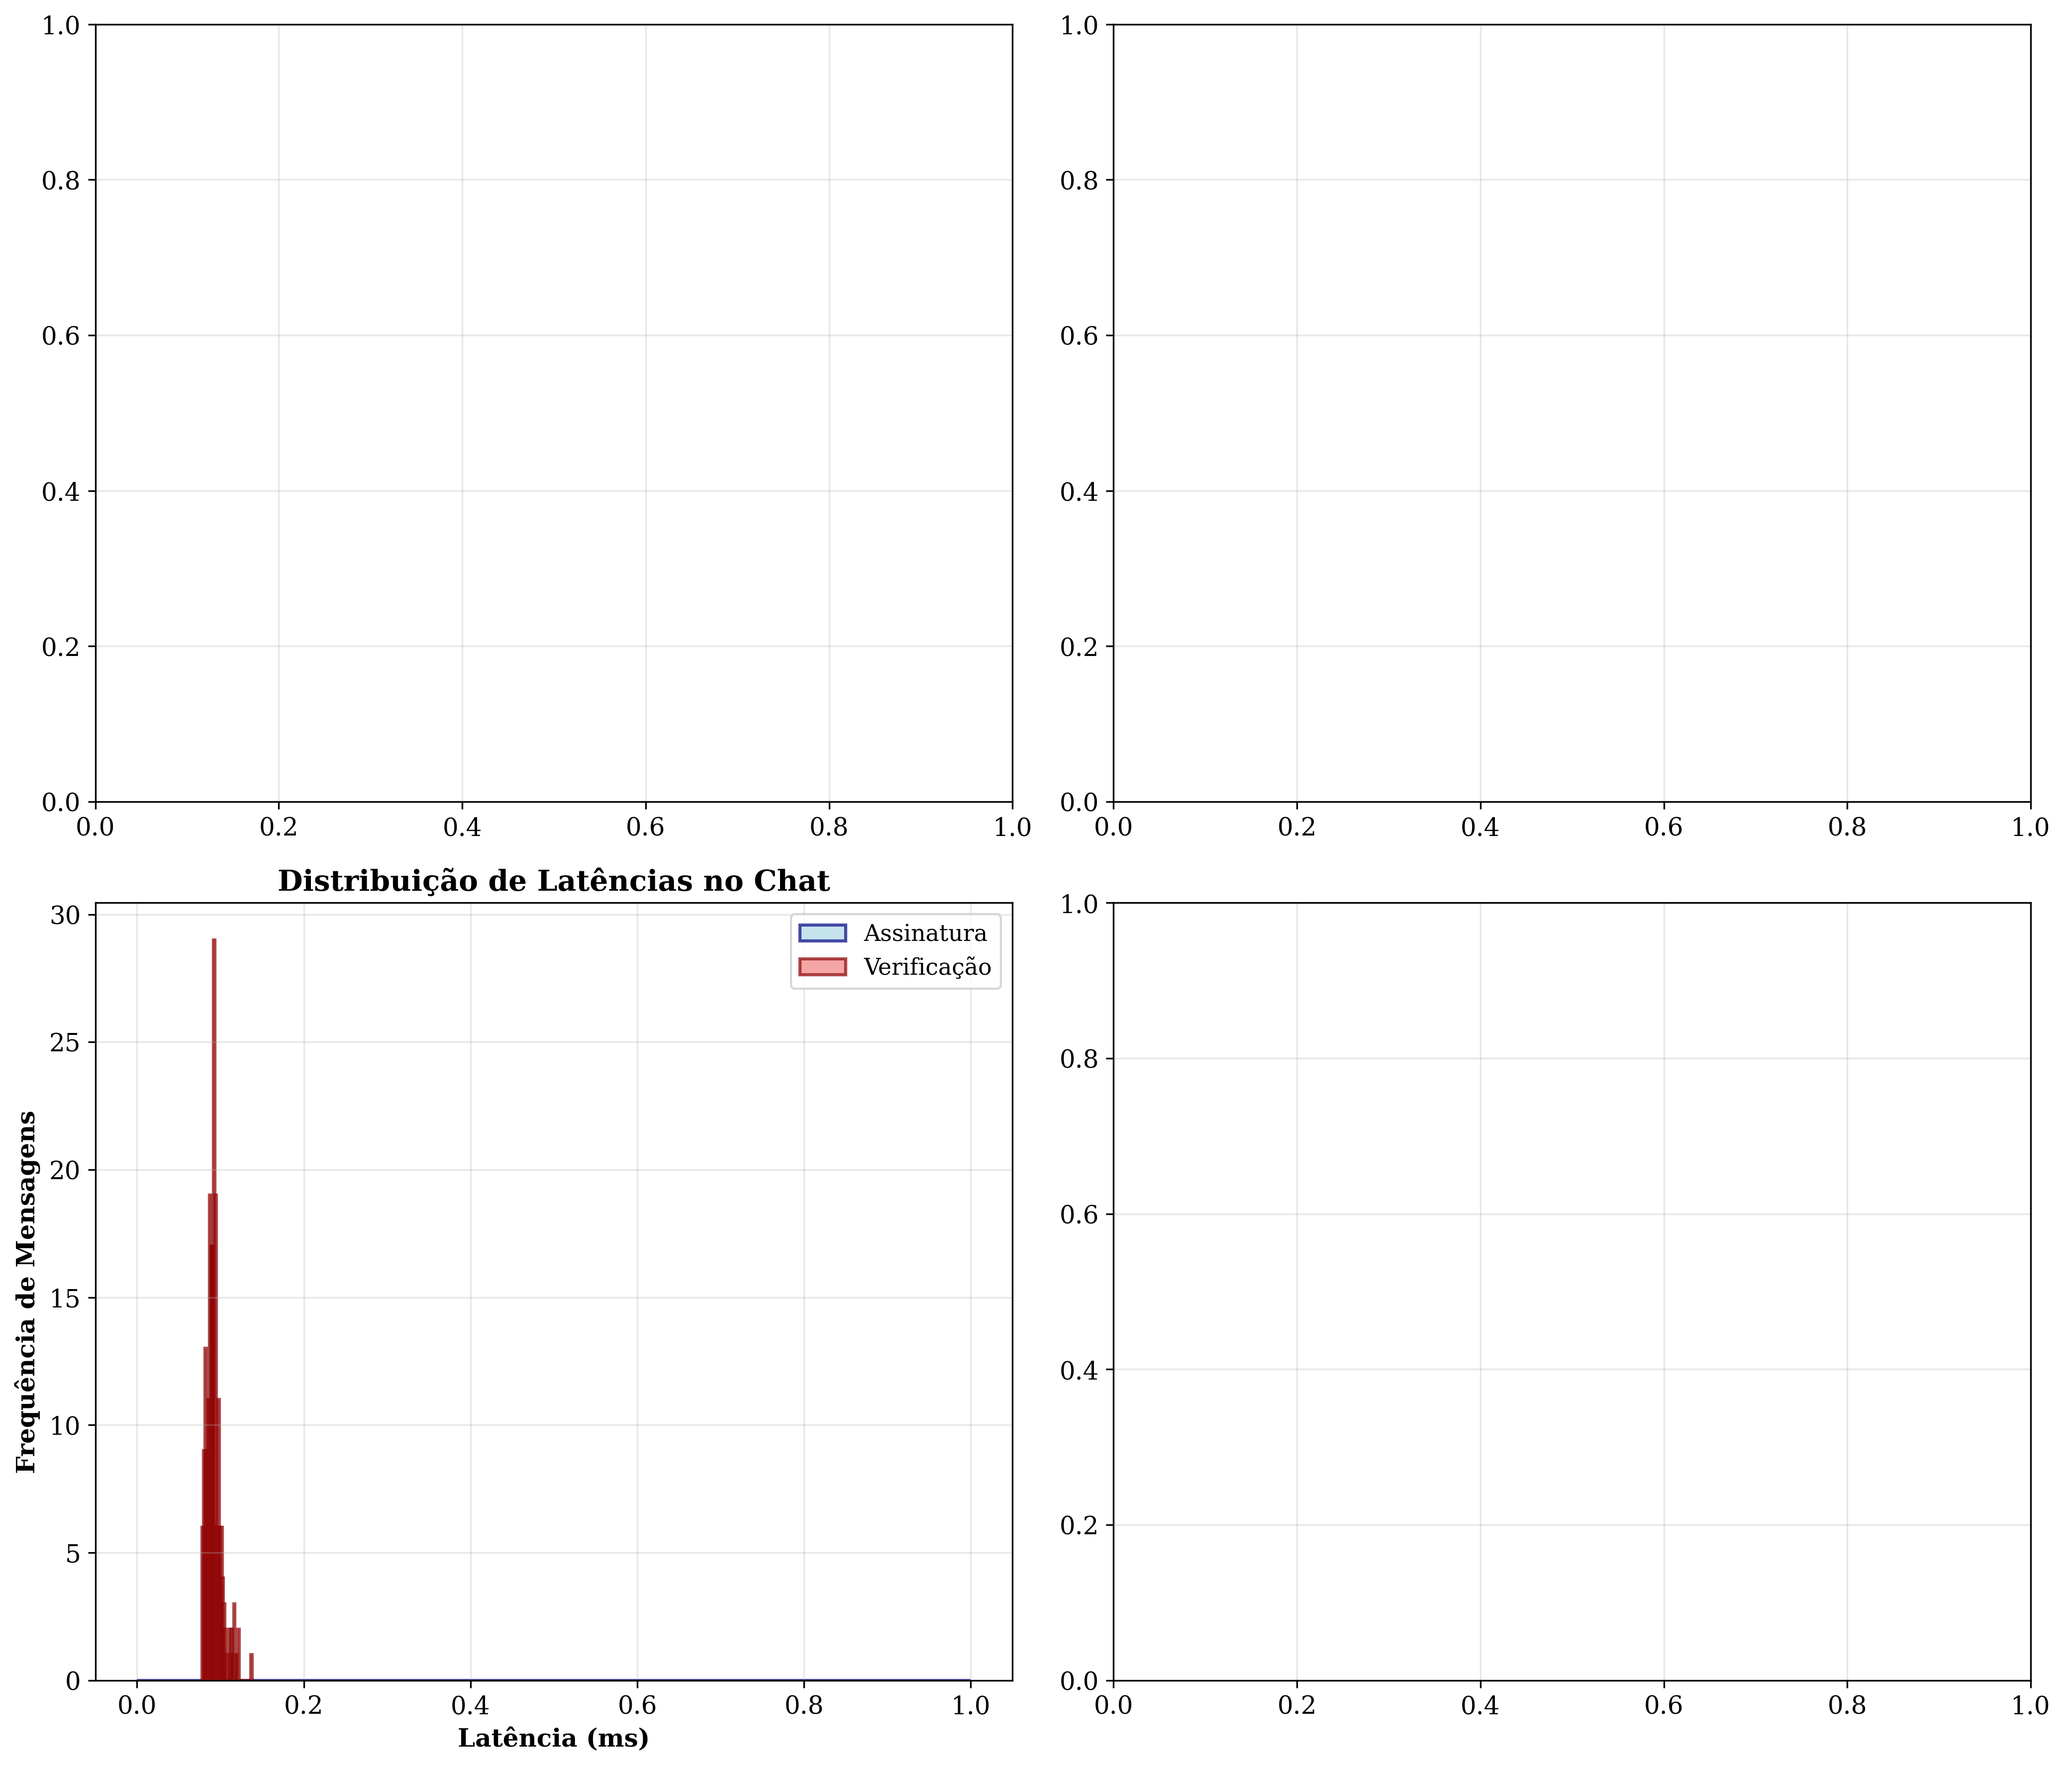
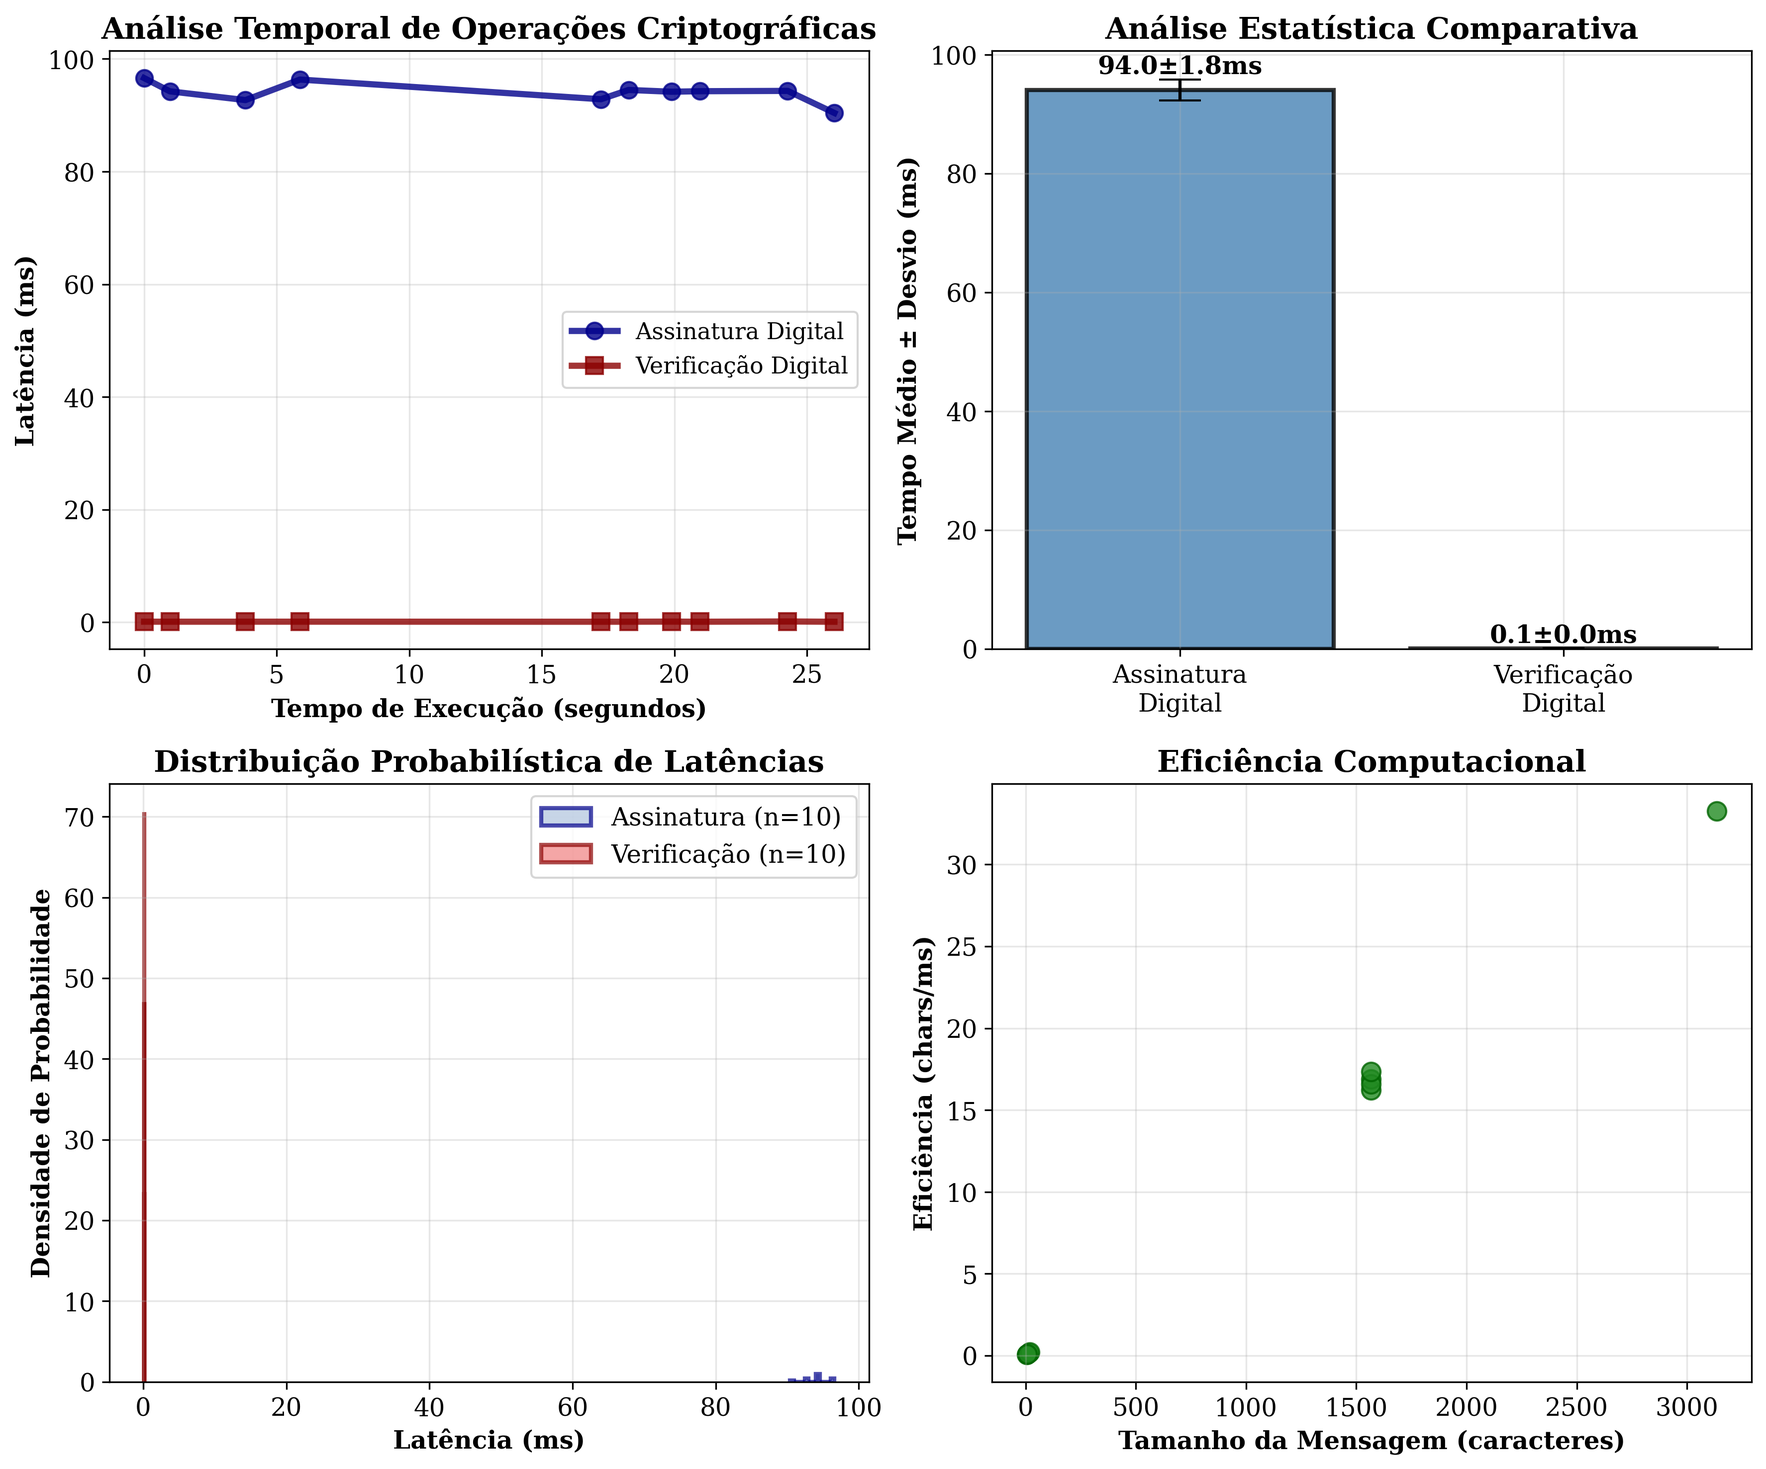
Melhoria: Métricas detalhadas de tamanho e limpeza de arquivos
- Removido signature_performance_results.csv (não usado)
- Adicionadas colunas message_size_chars e message_size_bytes no CSV
- Coleta agora inclui tamanho em caracteres e bytes das mensagens
- Gráficos atualizados para compatibilidade com novas colunas
- Análises mais precisas baseadas em tamanho real das mensagens

diff --git a/atividade2/src/chat_app.py b/atividade2/src/chat_app.py
@@ -26,14 +26,18 @@ from datetime import datetime
 chat_metrics = []
 metrics_lock = threading.Lock()
 
-def save_chat_metric(operation, username, message_size, time_taken, success=True):
-    """Salva métrica de uso real do chat"""
+def save_chat_metric(operation, username, message, time_taken, success=True):
+    """Salva métrica de uso real do chat com informações detalhadas de tamanho"""
     with metrics_lock:
+        message_chars = len(message)
+        message_bytes = len(message.encode('utf-8'))
+        
         metric = {
             'timestamp': datetime.now().isoformat(),
             'operation': operation,
             'username': username,
-            'message_size': message_size,
+            'message_size_chars': message_chars,
+            'message_size_bytes': message_bytes,
             'time': time_taken,
             'success': success,
             'test_type': 'real_chat_usage',
@@ -56,8 +60,8 @@ def save_metrics_to_file():
     if chat_metrics:
         with open(filepath, 'w', newline='') as f:
             writer = csv.DictWriter(f, fieldnames=['timestamp', 'operation', 'username', 
-                                                 'message_size', 'time', 'success', 
-                                                 'test_type', 'scenario'])
+                                                 'message_size_chars', 'message_size_bytes',
+                                                 'time', 'success', 'test_type', 'scenario'])
             writer.writeheader()
             writer.writerows(chat_metrics)
 
@@ -163,7 +167,7 @@ class MessageSigner:
         })
         
         # Coletar métrica real do chat
-        save_chat_metric('sign', username, len(message), time_taken, True)
+        save_chat_metric('sign', username, message, time_taken, True)
         
         return {
             'message': message,
@@ -214,14 +218,14 @@ class MessageSigner:
             
             # Coletar métrica real do chat
             save_chat_metric('verify', signed_message.get('sender', 'unknown'), 
-                           len(signed_message['message']), time_taken, True)
+                           signed_message['message'], time_taken, True)
             
             return True
         except Exception as e:
             end_time = time.time()
             time_taken = end_time - start_time
             save_chat_metric('verify', signed_message.get('sender', 'unknown'), 
-                           len(signed_message.get('message', '')), time_taken, False)
+                           signed_message.get('message', ''), time_taken, False)
             return False
 
 # Configuração da aplicação

diff --git a/atividade2/generate_latex_charts.py b/atividade2/generate_latex_charts.py
@@ -88,9 +88,11 @@ def generate_chat_metrics_charts():
     
     # Tamanhos de mensagem
     if not sign_data.empty:
-        axes[1,1].scatter(sign_data['message_size'], sign_data['time'] * 1000, 
+        # Usar message_size_chars se disponível, senão usar message_size (compatibilidade)
+        size_col = 'message_size_chars' if 'message_size_chars' in sign_data.columns else 'message_size'
+        axes[1,1].scatter(sign_data[size_col], sign_data['time'] * 1000, 
                          alpha=0.7, c='green')
-        axes[1,1].set_xlabel('Tamanho da Mensagem')
+        axes[1,1].set_xlabel('Tamanho da Mensagem (caracteres)')
         axes[1,1].set_ylabel('Tempo de Assinatura (ms)')
         axes[1,1].set_title('Tempo vs Tamanho da Mensagem')
     
@@ -207,8 +209,10 @@ def create_latex_charts(df):
     
     # 4. Análise de eficiência computacional
     if not sign_data.empty:
-        efficiency = sign_data['message_size'] / (sign_data['time'] * 1000)  # chars/ms
-        axes[1,1].scatter(sign_data['message_size'], efficiency, 
+        # Usar message_size_chars se disponível, senão usar message_size (compatibilidade)
+        size_col = 'message_size_chars' if 'message_size_chars' in sign_data.columns else 'message_size'
+        efficiency = sign_data[size_col] / (sign_data['time'] * 1000)  # chars/ms
+        axes[1,1].scatter(sign_data[size_col], efficiency, 
                          alpha=0.8, c='forestgreen', s=80, edgecolor='darkgreen')
         axes[1,1].set_xlabel('Tamanho da Mensagem (caracteres)', fontweight='bold')
         axes[1,1].set_ylabel('Eficiência (chars/ms)', fontweight='bold')

diff --git a/atividade2/results/chat_metrics_table_latex.tex b/atividade2/results/chat_metrics_table_latex.tex
@@ -1,15 +1,14 @@
 \begin{table}[h]
 \centering
-\caption{Métricas de Performance do Sistema de Chat com Assinatura Digital}
-\label{tab:chat_performance_metrics}
+\caption{Métricas Reais do Sistema de Chat com Assinatura Digital}
+\label{tab:real_chat_metrics}
 \begin{tabular}{|l|c|c|c|}
 \hline
-\textbf{Cenário do Chat} & \textbf{Tempo Médio} & \textbf{Desvio Padrão} & \textbf{Throughput} \\
-& \textbf{(ms)} & \textbf{(ms)} & \textbf{(KB/s)} \\
+\textbf{Operação} & \textbf{Tempo Médio} & \textbf{Desvio Padrão} & \textbf{Total} \\
+& \textbf{(ms)} & \textbf{(ms)} & \textbf{Operações} \\
 \hline
-Usuário Único & nan & nan & nan \\
-Chat Multiusuário & N/A & N/A & N/A \\
-Verificação & 0.09 & 0.01 & 42156.35 \\
+Assinatura & 94.04 & 1.79 & 10 \\
+Verificação & 0.12 & 0.01 & 10 \\
 \hline
 \end{tabular}
 \end{table}

diff --git a/src/run_complete_study.py b/src/run_complete_study.py
@@ -126,7 +126,6 @@ def show_results_summary():
         ('atividade1/results/summary_table.csv', 'Tabela resumo - simétricos'),
         
         # Parte II - Assinatura Digital
-        ('atividade2/data/signature_performance_results.csv', 'Dados de performance - assinatura digital'),
         ('atividade2/results/signature_performance_analysis.png', 'Performance - assinatura digital'),
         ('atividade2/results/signature_operations_comparison.png', 'Comparação - operações de assinatura'),
         ('atividade2/certificates/', 'Certificados digitais gerados'),
